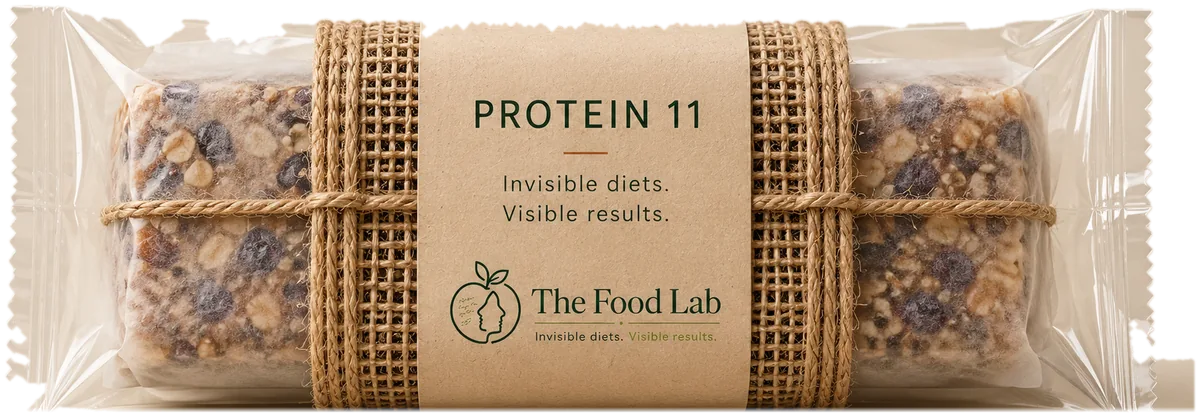
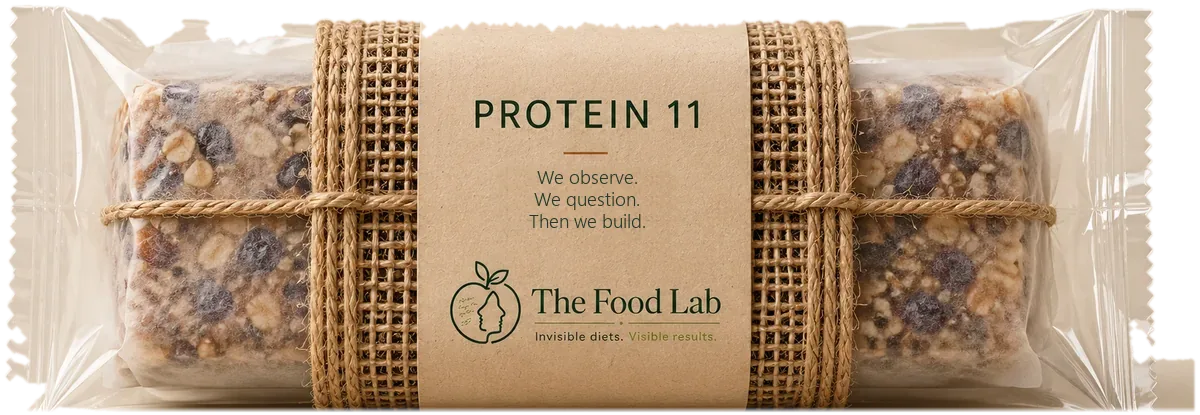
Shadows instead of borders, tidier gluten and sources, new bar wrapper line
- Happiness Macro: stage chips, Enjoyment and the result card lift with
  shadows instead of outlines
- Real-life meal tiles use shadows instead of borders
- Gluten: survey lines are plain rows; tap-to-expand question and hint removed
- No dashed rule above the egg, rice and protein sources
- Protein 11 wrapper photo: "We observe. We question. Then we build." replaces
  the large "Invisible diets. Visible results." (share image regenerated)

Changed region(s): [[0.4008, 0.4048, 0.555, 0.5494]]

diff --git a/src/components/food-lab/GlutenExperiment.tsx b/src/components/food-lab/GlutenExperiment.tsx
@@ -24,35 +24,18 @@ const regions = [
 
 type Region = (typeof regions)[number][0];
 
-function Group({ title, tone, items, open, onToggle }: {
-    title: string;
-    tone: "green" | "brick";
-    items: Signal[];
-    open: string | null;
-    onToggle: (key: string) => void;
-}) {
+function Group({ title, tone, items }: { title: string; tone: "green" | "brick"; items: Signal[] }) {
     return (
         <div className={`gf-group gf-group--${tone}`}>
             <h5 className="gf-group__title">{title}</h5>
             <ul className="gf-list">
-                {items.map(({ value, short, full }, index) => {
-                    const isOpen = open === short;
-                    return (
-                        <li key={short}>
-                            <button
-                                type="button"
-                                className="gf-row"
-                                aria-expanded={isOpen}
-                                onClick={() => onToggle(short)}
-                                style={{ "--v": `${value}%`, "--i": index } as React.CSSProperties}>
-                                <strong>{value}%</strong>
-                                <span>{short}</span>
-                                <i aria-hidden="true" />
-                            </button>
-                            {isOpen && <p className="gf-row__full">{value}% {full}.</p>}
-                        </li>
-                    );
-                })}
+                {items.map(({ value, short }, index) => (
+                    <li key={short} className="gf-row" style={{ "--v": `${value}%`, "--i": index } as React.CSSProperties}>
+                        <strong>{value}%</strong>
+                        <span>{short}</span>
+                        <i aria-hidden="true" />
+                    </li>
+                ))}
             </ul>
         </div>
     );
@@ -61,8 +44,6 @@ function Group({ title, tone, items, open, onToggle }: {
 export function GlutenExperiment() {
     // Phones show one scene at a time; wider screens show both side by side.
     const [region, setRegion] = useState<Region>("us");
-    const [open, setOpen] = useState<string | null>(null);
-    const toggle = (key: string) => setOpen((current) => (current === key ? null : key));
 
     return (
         <div className="gluten-experiment">
@@ -88,10 +69,9 @@ export function GlutenExperiment() {
                     <p className="gf-takeaway">Half couldn’t say what gluten is. Half say the crowd drives the trend.</p>
                 </div>
                 <div className="gf-groups">
-                    <Group title="What they know" tone="green" items={knowledge} open={open} onToggle={toggle} />
-                    <Group title="What they believe" tone="brick" items={belief} open={open} onToggle={toggle} />
+                    <Group title="What they know" tone="green" items={knowledge} />
+                    <Group title="What they believe" tone="brick" items={belief} />
                 </div>
-                <p className="gf-hint">Tap a line for the full question.</p>
                 <SourceNote className="gf-source">
                     <a href="https://www.researchsquare.com/article/rs-9052215/v1" target="_blank" rel="noreferrer">Moitra &amp; Qureshi, Research Square preprint, 2026</a>.
                     Share of respondents. An observation, not personal dietary advice.

diff --git a/src/components/food-lab/HypothesisExperiment.css b/src/components/food-lab/HypothesisExperiment.css
@@ -84,8 +84,6 @@
   display: inline-flex;
   align-items: center;
   gap: 0.4rem;
-  padding: 0.5rem 0.8rem;
-  border-radius: 0.6rem;
   font-size: 0.9rem;
   font-weight: 600;
   animation: mc-pop 0.4s calc(var(--i) * 140ms + 0.2s) cubic-bezier(0.3, 0.7, 0.2, 1) backwards;
@@ -103,7 +101,6 @@
   padding-left: 0;
   padding-right: 0.2rem;
   border: 0;
-  background: none;
   color: var(--mc-ink);
 }
 .macro-eq__stage .macro-eq__tick {
@@ -175,7 +172,6 @@
   gap: 1rem;
   padding: 1.1rem 1.25rem 1.2rem;
   border-radius: 1rem;
-  border: 2px solid var(--mc-joy);
   background: var(--mc-joy-bg);
   animation: mc-pop 0.35s cubic-bezier(0.3, 0.7, 0.2, 1);
 }
@@ -288,16 +284,6 @@
   color: rgba(23, 59, 48, 0.5);
 }
 
-.macro-week__count {
-  font-size: 0.9rem;
-  font-weight: 700;
-  color: var(--mc-joy);
-}
-
-.is-nojoy .macro-week__count {
-  color: var(--mc-no);
-}
-
 /* the other outcome: quiet, always there */
 .macro-counter {
   margin: -0.35rem 0 0;
@@ -404,7 +390,7 @@
   .macro-eq { flex-direction: row; flex-wrap: wrap; align-items: center; gap: 0.35rem; margin-top: 0; }
   .macro-eq__stages,
   .macro-eq__joyrow { display: contents; }
-  .macro-eq__stage { padding: 0.3rem 0.5rem; font-size: 0.8rem; }
+  .macro-eq__stage { font-size: 0.8rem; }
   .macro-eq__joy { padding: 0.3rem 0.65rem; font-size: 0.8rem; }
   .macro-eq__joy-heart { width: 14px; height: 14px; }
   .macro-eq__plus { font-size: 1.2rem; }
@@ -416,4 +402,27 @@
   .macro-week { margin-top: 0.4rem; }
   .macro-counter { font-size: 0.8rem; }
   .macro-generic { padding: 0; font-size: 0.9rem; }
+}
+
+/* surfaces lift with a soft shadow instead of an outline */
+.macro-eq__stage {
+  padding: 0.4rem 0.75rem 0.4rem 0.6rem;
+  border-radius: 999px;
+  background: #fff;
+  box-shadow: 0 1px 2px rgba(23, 59, 48, 0.12), 0 6px 14px -8px rgba(23, 59, 48, 0.45);
+}
+.macro-eq__stage + .macro-eq__stage::before { display: none; }
+.macro-eq__joy,
+.is-nojoy .macro-eq__joy {
+  border: 0;
+  box-shadow: 0 1px 2px rgba(47, 125, 82, 0.25), 0 8px 18px -8px rgba(47, 125, 82, 0.6);
+}
+.is-nojoy .macro-eq__joy { box-shadow: 0 1px 2px rgba(23, 59, 48, 0.12), 0 6px 14px -8px rgba(23, 59, 48, 0.35); }
+.macro-result {
+  border: 0;
+  box-shadow: 0 2px 4px rgba(47, 125, 82, 0.15), 0 14px 28px -12px rgba(47, 125, 82, 0.55);
+}
+.is-nojoy .macro-result { box-shadow: 0 2px 4px rgba(181, 71, 58, 0.15), 0 14px 28px -12px rgba(181, 71, 58, 0.55); }
+@media (max-width: 767px) {
+  .macro-eq__stage { padding: 0.3rem 0.6rem 0.3rem 0.45rem; }
 }

diff --git a/src/globals.css b/src/globals.css
@@ -926,10 +926,6 @@ main > section.reveal.is-revealed {
     width: 100%;
   }
 
-  .egg-observation__rail {
-    display: block;
-  }
-
   .egg-observation__caption {
     margin-left: 0;
     text-align: center;
@@ -937,11 +933,9 @@ main > section.reveal.is-revealed {
 
   .egg-observation__reading {
     max-width: none;
-    text-align: center;
   }
 
   .egg-observation__interpretation {
-    max-width: 31ch;
     margin-inline: auto;
   }
 
@@ -1829,7 +1823,6 @@ body,
   #question .hero-p11 { display: none; }
   /* the headline shares its row with a small Protein 11 note; the subtitle runs full width */
   #question { padding-top: 0.75rem; }
-  #question > .paper-sheet { padding-top: 1.1rem; padding-bottom: 1.75rem; }
   #question .hero-question-copy {
     display: grid;
     grid-template-columns: minmax(0, 1fr) 8rem;
@@ -2124,11 +2117,6 @@ body,
 .source-note summary::after { content: "+"; text-decoration: none; }
 .source-note[open] summary::after { content: "–"; }
 .source-note p { margin: 0.45rem 0 0; }
-.gf-hint {
-  margin: 0.75rem 0 0;
-  font: 11px var(--fl-font-mono, "Space Mono", ui-monospace, monospace);
-  color: color-mix(in srgb, var(--fl-ink) 55%, transparent);
-}
 
 /* Protein 11 price: the offer price leads, the list price is struck through, terms sit quietly below */
 .p11-price { margin-top: 1.25rem; padding-top: 0.9rem; border-top: 1px dashed rgba(23, 59, 48, 0.25); }
@@ -2166,3 +2154,6 @@ body :is(.gap-board__switch button[aria-pressed="false"], .gf-region-switch butt
 body :is(.gap-board__switch, .gf-region-switch) { box-shadow: inset 0 2px 4px rgba(0, 0, 0, 0.12); }
 /* bookmarks are clipped shapes, so the shadow goes on their row */
 .lens-bookmarks { filter: drop-shadow(0 6px 6px rgba(40, 28, 12, 0.18)); }
+
+/* no dashed rule above the folded sources */
+.lens-coverflow :is(.egg-observation__source, .rice-source, .protein-panel__source) { border-top: 0; padding-top: 0; }

diff --git a/src/components/food-lab/ProteinExperiment.css b/src/components/food-lab/ProteinExperiment.css
@@ -13,15 +13,8 @@
 }
 .protein-stage > .fl-sink { width: 100%; margin: 0; align-self: center; }
 /* the diagnosis stays compact so the drawing leads */
-.protein-diagnosis { padding: 0.8rem 0.95rem 0.9rem; }
-.protein-diagnosis__body { margin-top: 0.6rem; }
 .protein-diagnosis__body h4 { font-size: clamp(1.15rem, 1.8vw, 1.45rem); }
-.protein-panel__stats { gap: 0.6rem; margin-top: 0.6rem; }
-.protein-panel__stat { padding-top: 0.55rem; }
 .protein-panel__number { font-size: clamp(1.9rem, 3vw, 2.5rem); }
-.protein-panel__pair .protein-panel__number,
-.protein-panel__number--recommendation { font-size: clamp(1.5rem, 2.3vw, 1.9rem); }
-.protein-panel__pair + .protein-panel__pair { margin-top: 0.35rem; }
 @media (max-width: 767px) {
   /* phones: the headline number sits beside its sentence */
   .protein-panel__stat:first-child { display: grid; grid-template-columns: auto minmax(0, 1fr); align-items: center; column-gap: 0.8rem; }
@@ -81,7 +74,6 @@
   font: 400 clamp(2.3rem, 3.6vw, 3.2rem) / 0.9 var(--fl-font-serif);
   letter-spacing: -0.06em;
 }
-.protein-panel__number--recommendation { color: var(--fl-ink); font-size: clamp(1.8rem, 2.8vw, 2.5rem); white-space: nowrap; }
 
 .protein-panel__label {
   display: block;

diff --git a/src/components/food-lab/GlutenExperiment.css b/src/components/food-lab/GlutenExperiment.css
@@ -26,14 +26,8 @@
   background: none;
   color: inherit;
   text-align: left;
-  cursor: pointer;
 }
 .gf-row:focus-visible { outline: 2px solid var(--gf-tone); outline-offset: 2px; }
-.gf-row__full {
-  margin: 0.35rem 0 0.5rem 4.8rem;
-  font: 400 0.9rem / 1.35 var(--fl-font-serif);
-  color: color-mix(in srgb, var(--fl-ink) 70%, transparent);
-}
 .gf-row strong { font: 400 1.55rem / 1 var(--fl-font-serif); letter-spacing: -0.04em; color: var(--gf-tone); }
 .gf-row span { font: 400 0.98rem / 1.2 var(--fl-font-serif); color: color-mix(in srgb, var(--fl-ink) 80%, transparent); }
 .gf-row i {

diff --git a/src/components/food-lab/PlanLedger.css b/src/components/food-lab/PlanLedger.css
@@ -98,7 +98,6 @@
   align-items: center;
   column-gap: 0.4rem;
   padding: 0.55rem 0.6rem;
-  border: 1px solid rgba(23, 59, 48, 0.12);
   border-radius: 10px;
   background: #fff;
   animation: pl-in 0.4s calc(var(--i) * 80ms + 0.1s) cubic-bezier(0.3, 0.7, 0.2, 1) backwards;
@@ -178,4 +177,10 @@
 
 @media (prefers-reduced-motion: reduce) {
   .plan-ledger__meal { animation: none; }
+}
+
+/* meal tiles lift off the card with a shadow instead of an outline */
+.plan-ledger__meal {
+  border: 0;
+  box-shadow: 0 1px 2px rgba(23, 59, 48, 0.1), 0 6px 14px -8px rgba(23, 59, 48, 0.4);
 }

diff --git a/src/components/food-lab/Protein11Interactions.css b/src/components/food-lab/Protein11Interactions.css
@@ -663,12 +663,10 @@
   .p11-list-section {
     flex-direction: row;
     flex-wrap: nowrap;
-    gap: 0.4rem;
     overflow-x: auto;
     overscroll-behavior-x: contain;
     scrollbar-width: none;
     -webkit-mask-image: linear-gradient(to right, #000 85%, transparent);
-    mask-image: linear-gradient(to right, #000 85%, transparent);
   }
 
   .p11-list-section::-webkit-scrollbar {
@@ -690,9 +688,7 @@
   .p11-item-btn {
     flex: none;
     width: auto;
-    min-height: 44px;
     align-items: center;
-    padding: 0.4rem 0.8rem;
     white-space: nowrap;
   }
 
